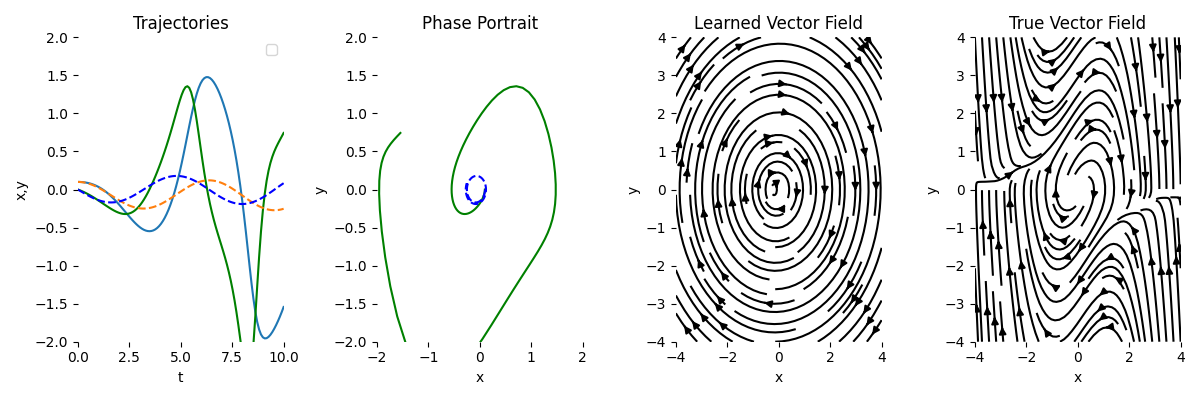
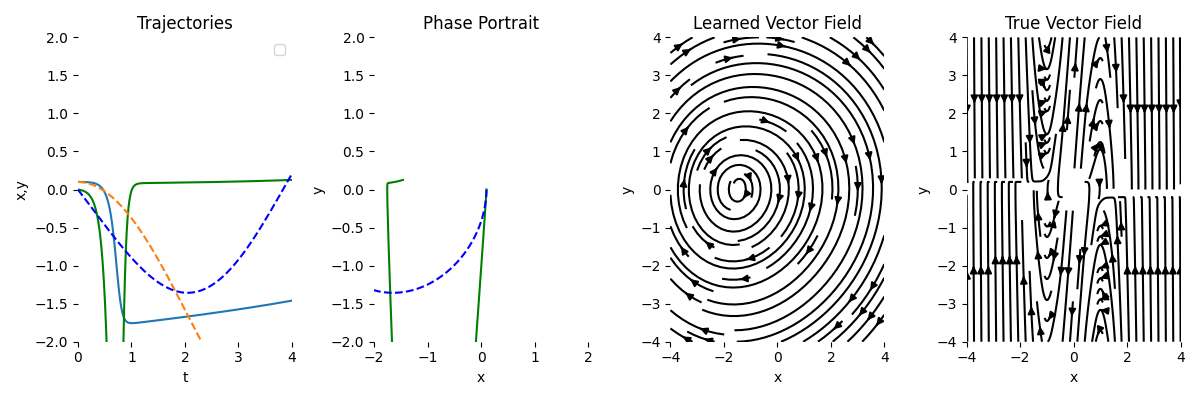
added vector field error

diff --git a/NeuralODE_VanDerPol.py b/NeuralODE_VanDerPol.py
@@ -28,10 +28,10 @@ else:
 device = torch.device('cuda:' + str(args.gpu) if torch.cuda.is_available() else 'cpu')
 
 true_y0 = torch.tensor([[.1, 0.]]).to(device)
-t = torch.linspace(0., 4., args.data_size).to(device)
+t = torch.linspace(0., 16., args.data_size).to(device)
 true_A = torch.tensor([[0, 1.0], [-1.0, 0.]]).to(device)
-mu = 10.
-
+mu = 5.
+M = 2.
 class Lambda(nn.Module):
 
     def forward(self, t, y):
@@ -56,9 +56,30 @@ def get_batch():
     return batch_y0.to(device), batch_t.to(device), batch_y.to(device)
 
 
-def makedirs(dirname):
-    if not os.path.exists(dirname):
-        os.makedirs(dirname)
+def uniform_sample():
+    X = -M + torch.rand((args.batch_size, 2))*2*M
+    batch_t = t[:args.batch_time]
+    # true_y = odeint(Lambda(), )
+
+
+def vector_field_error(odefunc, true_odefunc):
+    y, x = np.mgrid[-4:4:21j, -4:4:21j]
+    dydt = odefunc(0, torch.Tensor(np.stack([x, y], -1).reshape(21 * 21, 2)).to(device)).cpu().detach().numpy()
+    mag = np.sqrt(dydt[:, 0]**2 + dydt[:, 1]**2).reshape(-1, 1)
+    dydt = (dydt / mag)
+    dydt = dydt.reshape(21, 21, 2)
+    dydt_true = true_odefunc(0, torch.Tensor(np.stack([x, y], -1).reshape(21 * 21, 2)).to(device)).cpu().detach().numpy()
+    mag = np.sqrt(dydt_true[:, 0]**2 + dydt_true[:, 1]**2).reshape(-1, 1)
+    dydt_true = (dydt_true / mag)
+    dydt_true = dydt_true.reshape(21, 21, 2)
+    return np.linalg.norm(dydt_true-dydt,axis=-1)
+
+    
+
+
+# def makedirs(dirname):
+#     if not os.path.exists(dirname):
+#         os.makedirs(dirname)
 
 
 if args.viz:
